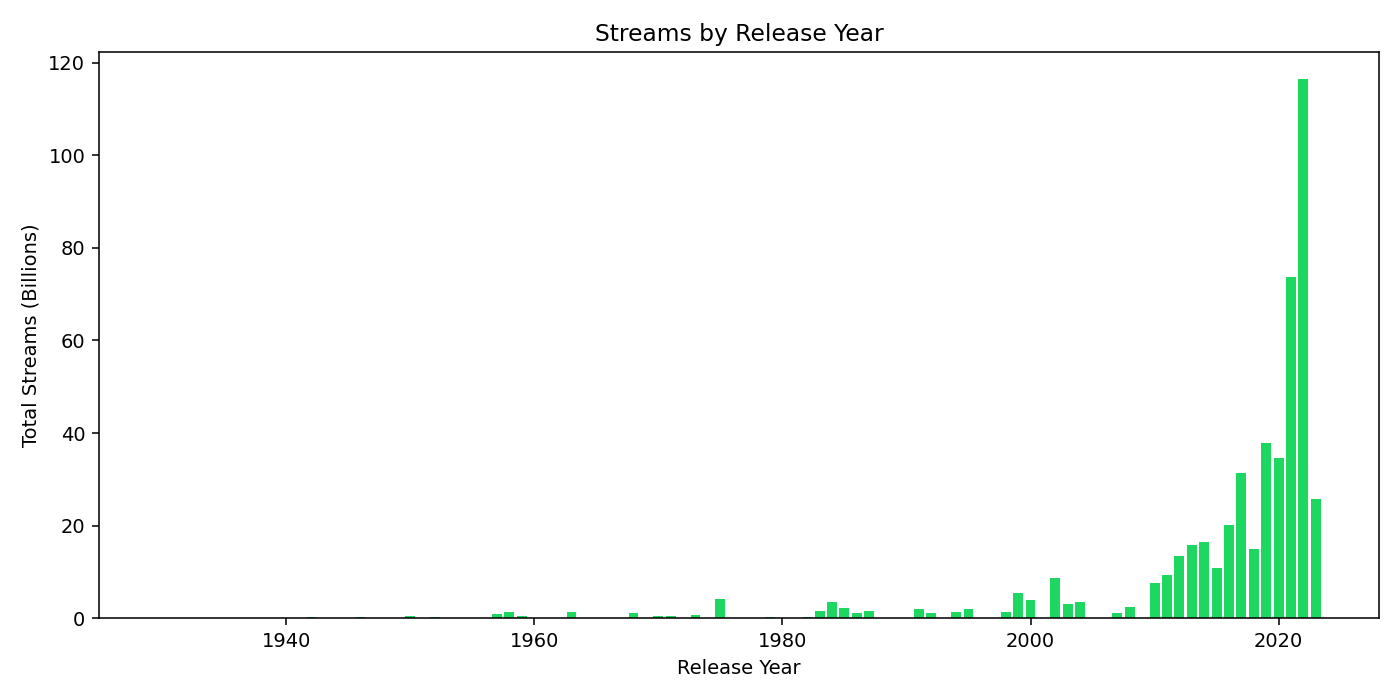
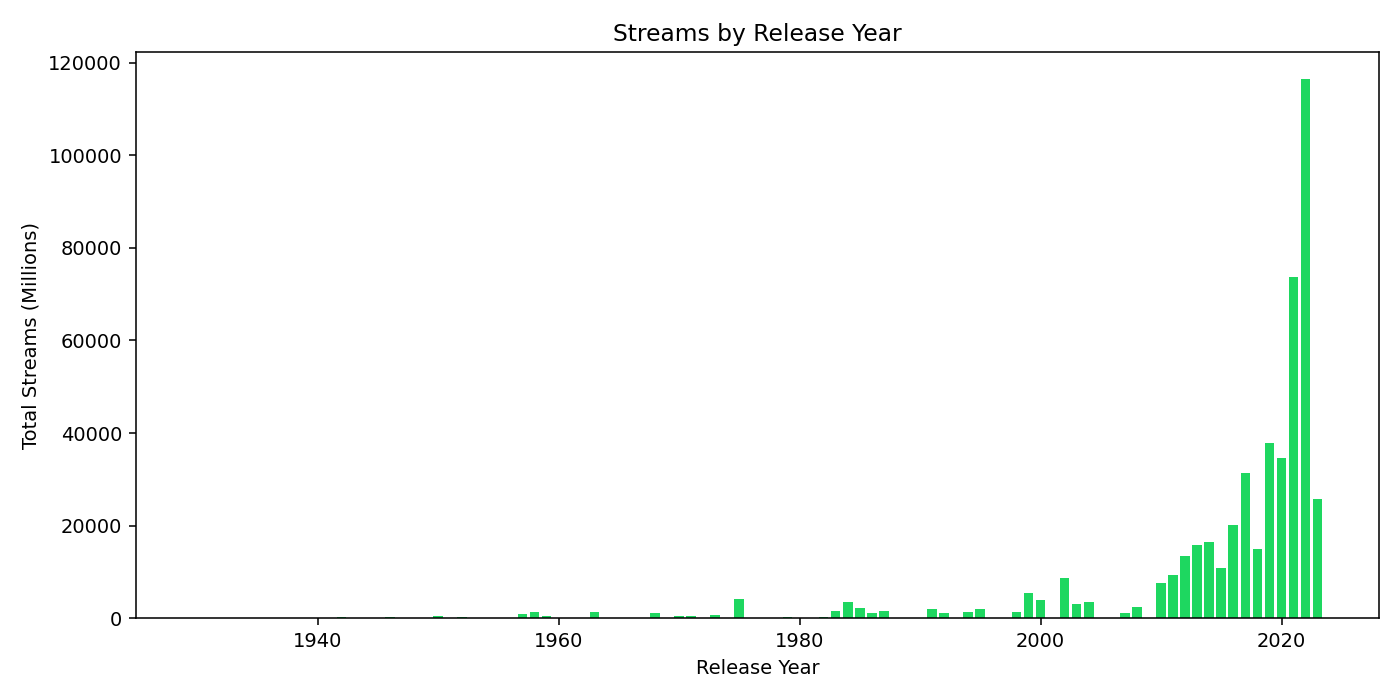
changes mostly to visuals.py

diff --git a/styles.css b/styles.css
@@ -1,4 +1,4 @@
-/* Global reset and typography */
+/* Base reset and typography */
 * {
     box-sizing: border-box;
     margin: 0;
@@ -120,7 +120,7 @@ nav a.active {
     box-shadow: 0 8px 24px rgba(0, 0, 0, 0.35);
 }
 
-/* Visualization cards */
+/* the Visualizations section */
 .viz-card {
     background: #181818;
     border-radius: 10px;
@@ -144,77 +144,6 @@ nav a.active {
     gap: 1rem;
 }
 
-.file-inputs {
-    display: grid;
-    grid-template-columns: repeat(auto-fit, minmax(260px, 1fr));
-    gap: 0.75rem;
-}
-
-.file-inputs label {
-    display: flex;
-    flex-direction: column;
-    gap: 0.35rem;
-    font-weight: 600;
-}
-
-.file-inputs input {
-    background: #121212;
-    color: #e5e5e5;
-    padding: 0.5rem;
-    border: 1px solid rgba(255, 255, 255, 0.1);
-    border-radius: 8px;
-}
-
-.actions {
-    display: flex;
-    align-items: center;
-    gap: 0.75rem;
-    flex-wrap: wrap;
-}
-
-.actions button {
-    padding: 0.55rem 1.1rem;
-    background: #1DB954;
-    color: #0b0b0b;
-    border: none;
-    border-radius: 8px;
-    font-weight: 700;
-    cursor: pointer;
-}
-
-.actions button:hover {
-    transform: translateY(-1px);
-    box-shadow: 0 6px 14px rgba(0, 0, 0, 0.35);
-}
-
-.actions .hint {
-    color: #b3b3b3;
-    font-size: 0.95rem;
-}
-
-.status {
-    padding: 0.5rem 0.75rem;
-    background: #121212;
-    border-radius: 8px;
-    border: 1px solid rgba(255, 255, 255, 0.08);
-}
-
-.chart {
-    min-height: 320px;
-}
-
-/* Collapsible text helper */
-.collapsible.collapsed {
-    max-height: 0;
-    overflow: hidden;
-    opacity: 0;
-    transition: max-height 0.3s ease, opacity 0.3s ease;
-}
-
-.collapsible {
-    transition: max-height 0.3s ease, opacity 0.3s ease;
-}
-
 /* Footer */
 footer {
     background: #0f0f0f;
@@ -234,22 +163,6 @@ footer {
 
 .back-to-top:hover {
     background: rgba(29, 185, 84, 0.15);
-}
-
-.toggle-btn {
-    display: inline-block;
-    margin-bottom: 0.5rem;
-    padding: 0.35rem 0.75rem;
-    background: rgba(29, 185, 84, 0.12);
-    color: #1DB954;
-    border: 1px solid #1DB954;
-    border-radius: 6px;
-    cursor: pointer;
-    font-weight: 600;
-}
-
-.toggle-btn:hover {
-    background: rgba(29, 185, 84, 0.2);
 }
 
 /* Media query for smaller screens */

diff --git a/index.html b/index.html
@@ -34,7 +34,7 @@
                 <ol>
                     <li>Place <code>moststreamedsongs.csv</code> and <code>spotify_history.csv</code> in this folder (use the bundled ones or your own exports).</li>
                     <li>Run <code>python visuals.py</code> to clean the data and generate fresh PNG charts in <code>img/</code>.</li>
-                    <li>Open or refresh this page to see the PNGs. No uploads or browser scripting needed.</li>
+                    <li>Open or refresh this page to see the PNGs. Swap in new CSVs and rerun the script any time.</li>
                 </ol>
                 <p>If a chart looks empty, check that your files have track name, artist name, streams (global), and msPlayed/endTime (history).</p>
             </div>
@@ -169,7 +169,5 @@
         <p>Created by Noah Boyd and Jack Bertram for our data visualization course project.</p>
         <a href="#home" class="back-to-top">Back to top</a>
     </footer>
-
-    <script src="script.js"></script>
 </body>
 </html>

diff --git a/visuals.py b/visuals.py
@@ -9,13 +9,12 @@ Charts are written into img/ and referenced by index.html as static PNGs.
 from pathlib import Path
 
 import matplotlib.pyplot as plt
-import numpy as np
 import pandas as pd
 
 IMG_DIR = Path("img")
 IMG_DIR.mkdir(exist_ok=True)
 
-
+#saving visualizations as png, double check folder exists when importing onto github
 def save_fig(name: str) -> None:
     plt.tight_layout()
     plt.savefig(IMG_DIR / name, dpi=140)
@@ -27,16 +26,7 @@ def truncate_label(text: str, max_len: int = 40) -> str:
     text = text or ""
     return text if len(text) <= max_len else text[: max_len - 3] + "..."
 
-
-def scale_values(values):
-    """Return scaled values and a simple unit label if numbers are large."""
-    max_val = max(values) if values else 0
-    if max_val >= 1_000_000_000:
-        return [v / 1_000_000_000 for v in values], "Billions"
-    if max_val >= 1_000_000:
-        return [v / 1_000_000 for v in values], "Millions"
-    return values, None
-
+#BELOW IS FOR STREAMED SONGS CSV
 
 # ---------------- Data loading ----------------
 def load_global(path: str = "moststreamedsongs.csv") -> pd.DataFrame:
@@ -55,6 +45,8 @@ def load_global(path: str = "moststreamedsongs.csv") -> pd.DataFrame:
     return df.dropna(subset=["streams"])
 
 
+##BELOW IS FOR SPOTIFY USER DATA
+
 def load_user(path: str = "spotify_history.csv") -> pd.DataFrame:
     df = pd.read_csv(path)
     # Normalize column names we expect from Spotify exports
@@ -69,6 +61,7 @@ def load_user(path: str = "spotify_history.csv") -> pd.DataFrame:
             "ts": "end_time",
         }
     )
+    # USE https://pandas.pydata.org/docs/reference/api/pandas.to_numeric.html and datetime section for reference  below
     if "end_time" not in df and "ts" in df:
         df["end_time"] = df["ts"]
     if "end_time" not in df and "timestamp" in df:
@@ -85,10 +78,9 @@ def plot_global_top_songs(df: pd.DataFrame, n: int = 20) -> None:
     top = df.nlargest(n, "streams")[::-1]
     plt.figure(figsize=(9, 10))
     labels = (top["track_name"] + " — " + top["artist_name"]).apply(lambda s: truncate_label(s, 45))
-    scaled_streams, unit = scale_values(top["streams"].tolist())
-    plt.barh(labels, scaled_streams, color="#1DB954")
-    x_label = "Total Streams" + (f" ({unit})" if unit else "")
-    plt.xlabel(x_label)
+    streams_billions = top["streams"] / 1_000_000_000
+    plt.barh(labels, streams_billions, color="#1DB954")
+    plt.xlabel("Total Streams (Billions)")
     plt.title(f"Top {n} Most Streamed Songs")
     save_fig("global_top_songs.png")
 
@@ -97,11 +89,10 @@ def plot_release_year(df: pd.DataFrame) -> None:
     valid = df.dropna(subset=["release_year"])
     grouped = valid.groupby("release_year")["streams"].sum()
     plt.figure(figsize=(10, 5))
-    scaled, unit = scale_values(grouped.values.tolist())
-    plt.bar(grouped.index, scaled, color="#1ED760")
+    streams_millions = grouped.values / 1_000_000
+    plt.bar(grouped.index, streams_millions, color="#1ED760")
     plt.xlabel("Release Year")
-    y_label = "Total Streams" + (f" ({unit})" if unit else "")
-    plt.ylabel(y_label)
+    plt.ylabel("Total Streams (Millions)")
     plt.title("Streams by Release Year")
     save_fig("global_year_streams.png")
 
@@ -116,30 +107,6 @@ def plot_concentration(df: pd.DataFrame) -> None:
     plt.ylim(0, 1.05)
     plt.title("Stream Concentration")
     save_fig("global_stream_concentration.png")
-
-
-def plot_energy_valence(df: pd.DataFrame) -> None:
-    if "energy" not in df or "valence" not in df:
-        return
-    sizes = df["streams"] / df["streams"].max() * 800
-    plt.figure(figsize=(8, 6))
-    scatter = plt.scatter(df["energy"], df["valence"], s=sizes, c=df["energy"], cmap="Greens", alpha=0.7)
-    plt.xlabel("Energy")
-    plt.ylabel("Valence")
-    plt.title("Energy vs Valence")
-    plt.colorbar(scatter, label="Energy")
-    save_fig("global_energy_valence.png")
-
-
-def plot_bpm(df: pd.DataFrame) -> None:
-    if "tempo" not in df:
-        return
-    plt.figure(figsize=(8, 5))
-    plt.hist(df["tempo"].dropna(), bins=30, color="#1DB954")
-    plt.xlabel("BPM")
-    plt.ylabel("Count")
-    plt.title("Tempo Distribution")
-    save_fig("global_bpm.png")
 
 
 # ---------------- User charts ----------------
@@ -164,19 +131,11 @@ def plot_user_top_tracks(df: pd.DataFrame, n: int = 15) -> None:
 
 
 def plot_user_hour(df: pd.DataFrame) -> None:
-    if "end_time" not in df:
-        plt.figure(figsize=(8, 4))
-        plt.text(0.5, 0.5, "No end_time column", ha="center")
-        save_fig("user_hour.png")
-        return
-    hours = df.dropna(subset=["end_time"]).copy()
+    hours = df.copy()
     hours["end_time"] = pd.to_datetime(hours["end_time"], errors="coerce")
     hours = hours.dropna(subset=["end_time"])
-    if hours.empty:
-        totals = pd.Series([0] * 24, index=range(24))
-    else:
-        hours["hour"] = hours["end_time"].dt.hour
-        totals = hours.groupby("hour")["hours_played"].sum().reindex(range(24), fill_value=0)
+    hours["hour"] = hours["end_time"].dt.hour
+    totals = hours.groupby("hour")["hours_played"].sum().reindex(range(24), fill_value=0)
     plt.figure(figsize=(10, 4))
     plt.bar(totals.index, totals.values, color="#1DB954")
     plt.xlabel("Hour of Day")
@@ -189,17 +148,16 @@ def plot_user_hour(df: pd.DataFrame) -> None:
 def overlap(user_df: pd.DataFrame, global_df: pd.DataFrame) -> pd.DataFrame:
     user = user_df.copy()
     global_copy = global_df.copy()
-    user["key"] = (user["track_name"] + "|" + user["artist_name"]).str.lower().str.strip()
+    user["key"] = (user["track_name"] + "|" + user["artist_name"]).str.lower().str.strip() #trimmed key for merge
     global_copy["key"] = (global_copy["track_name"] + "|" + global_copy["artist_name"]).str.lower().str.strip()
-    merged = user.merge(global_copy, on="key", suffixes=("_user", "_global"))
-    # Ensure we have a clear hours column for the user side.
-    if "hours_played_user" not in merged.columns and "hours_played" in merged.columns:
-        merged = merged.rename(columns={"hours_played": "hours_played_user"})
+    merged = user.merge(global_copy, on="key", suffixes=("_user", "_global")) #troubleshooting: https://pandas.pydata.org/docs/reference/api/pandas.DataFrame.add_suffix.html
+    merged = merged.rename(columns={"hours_played": "hours_played_user"}, errors="ignore")
     return merged
 
 
+
 def plot_overlap_bar(merged: pd.DataFrame, user_df: pd.DataFrame) -> None:
-    hours_on_hits = merged["hours_played_user"].sum() if "hours_played_user" in merged else 0
+    hours_on_hits = merged["hours_played_user"].sum()
     total_hours = user_df["hours_played"].sum()
     other_hours = max(total_hours - hours_on_hits, 0)
 
@@ -212,11 +170,6 @@ def plot_overlap_bar(merged: pd.DataFrame, user_df: pd.DataFrame) -> None:
 
 def plot_overlap_top_tracks(merged: pd.DataFrame, top_n: int = 10) -> None:
     """Top overlapping tracks by hours listened."""
-    if merged.empty:
-        plt.figure(figsize=(6, 4))
-        plt.text(0.5, 0.5, "No overlapping songs found", ha="center")
-        save_fig("user_overlap_top_tracks.png")
-        return
     labels = merged["track_name_user"] + " — " + merged["artist_name_user"]
     totals = (
         merged.assign(label=labels)
@@ -233,42 +186,15 @@ def plot_overlap_top_tracks(merged: pd.DataFrame, top_n: int = 10) -> None:
     save_fig("user_overlap_top_tracks.png")
 
 
-def plot_feature_profile(merged: pd.DataFrame, global_df: pd.DataFrame) -> None:
-    features = [c for c in ["danceability", "energy", "valence", "tempo"] if c in global_df.columns]
-    if len(features) < 3 or merged.empty:
-        return
-
-    global_means = global_df[features].mean()
-    user_means = merged[[f + "_global" for f in features]].mean()
-
-    angles = np.linspace(0, 2 * np.pi, len(features), endpoint=False)
-    angles = np.concatenate([angles, [angles[0]]])
-    g_vals = np.concatenate([global_means.values, [global_means.values[0]]])
-    u_vals = np.concatenate([user_means.values, [user_means.values[0]]])
-
-    fig, ax = plt.subplots(figsize=(7, 7), subplot_kw={"polar": True})
-    ax.plot(angles, g_vals, label="Global", color="#1DB954")
-    ax.fill(angles, g_vals, alpha=0.25, color="#1DB954")
-    ax.plot(angles, u_vals, label="User Overlap", color="#1ED760")
-    ax.fill(angles, u_vals, alpha=0.25, color="#1ED760")
-    ax.set_xticks(angles[:-1])
-    ax.set_xticklabels(features)
-    ax.set_title("Audio Feature Profile")
-    ax.legend(loc="upper right")
-    save_fig("user_vs_global_radar.png")
-
-
 # ---------------- Entry point ----------------
-if __name__ == "__main__":
-    global_df = load_global()
+if __name__ == "__main__": # block only runs if script is run directly, not when imported  
+    global_df = load_global() # https://pandas.pydata.org/docs/reference/api/pandas.DataFrame.merge.html
     user_df = load_user()
     merged = overlap(user_df, global_df)
 
     plot_global_top_songs(global_df)
     plot_release_year(global_df)
     plot_concentration(global_df)
-    plot_energy_valence(global_df)
-    plot_bpm(global_df)
 
     plot_user_top_artists(user_df)
     plot_user_top_tracks(user_df)
@@ -276,5 +202,3 @@ if __name__ == "__main__":
 
     plot_overlap_bar(merged, user_df)
     plot_overlap_top_tracks(merged)
-    if not merged.empty:
-        plot_feature_profile(merged, global_df)
